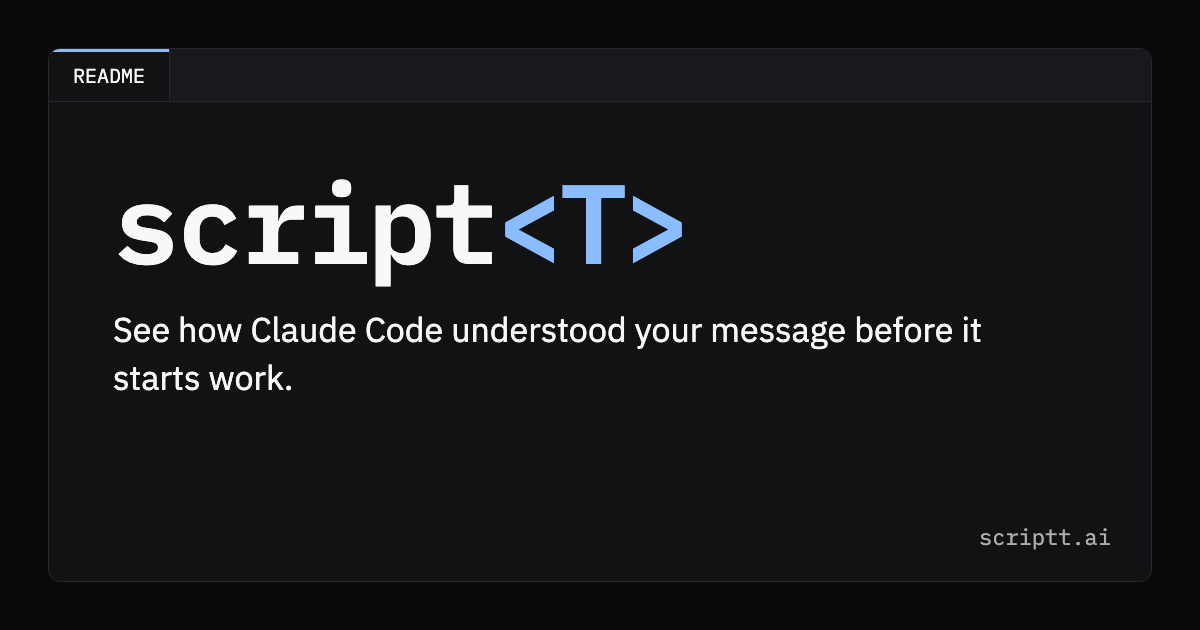
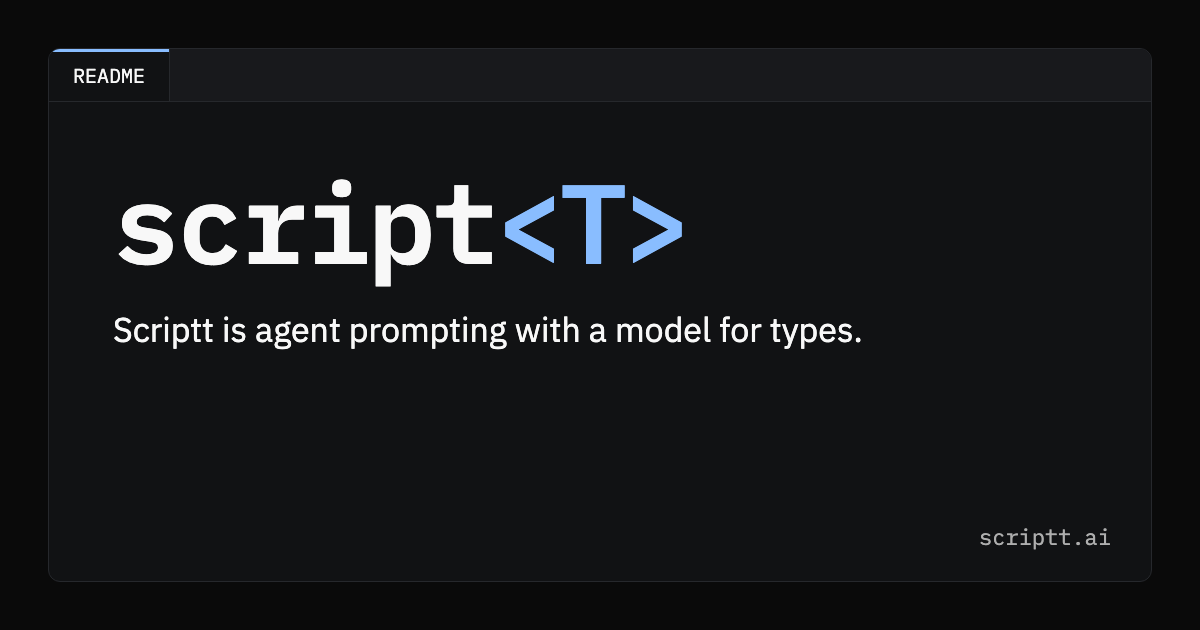
Social card: Scriptt is agent prompting with a model for types.

Changed region(s): [[0.0925, 0.4825, 0.8325, 0.6333]]

diff --git a/web/site/index.html b/web/site/index.html
@@ -18,7 +18,7 @@
 <meta property="og:image" content="https://scriptt.ai/og.png">
 <meta property="og:image:width" content="1200">
 <meta property="og:image:height" content="630">
-<meta property="og:image:alt" content="script<T>: See how Claude Code understood your message before it starts work.">
+<meta property="og:image:alt" content="script&lt;T&gt;: Scriptt is agent prompting with a model for types.">
 <meta name="twitter:card" content="summary_large_image">
 <meta name="twitter:title" content="script<T>">
 <meta name="twitter:description" content="See how Claude Code understood your message before it starts work, and send Claude back when it skips a step.">

diff --git a/web/social/card.html b/web/social/card.html
@@ -19,7 +19,7 @@
 <div class="frame">
   <div class="tabs"><span>README</span></div>
   <div class="mark">script<b>&lt;T&gt;</b></div>
-  <p class="line">See how Claude Code understood your message before it starts work.</p>
+  <p class="line">Scriptt is agent prompting with a model for types.</p>
   <div class="url">scriptt.ai</div>
 </div>
 </body>
